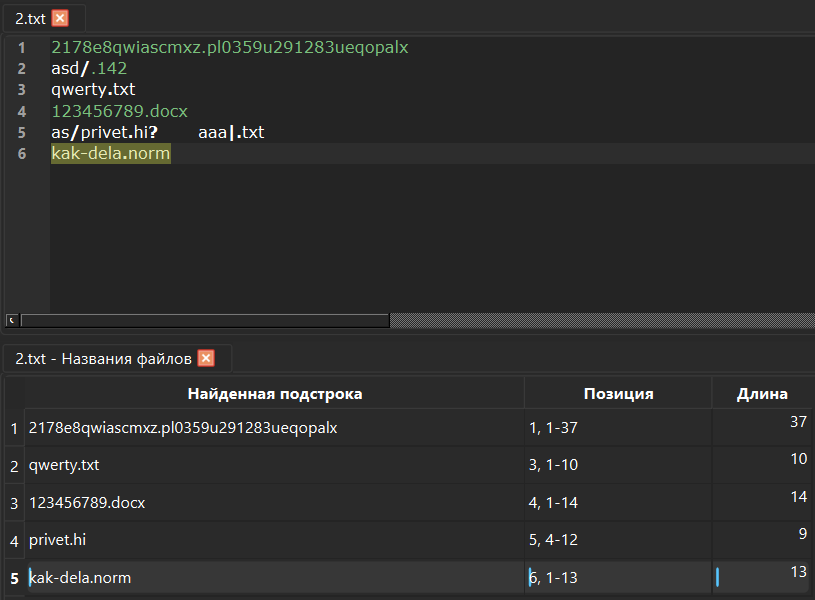
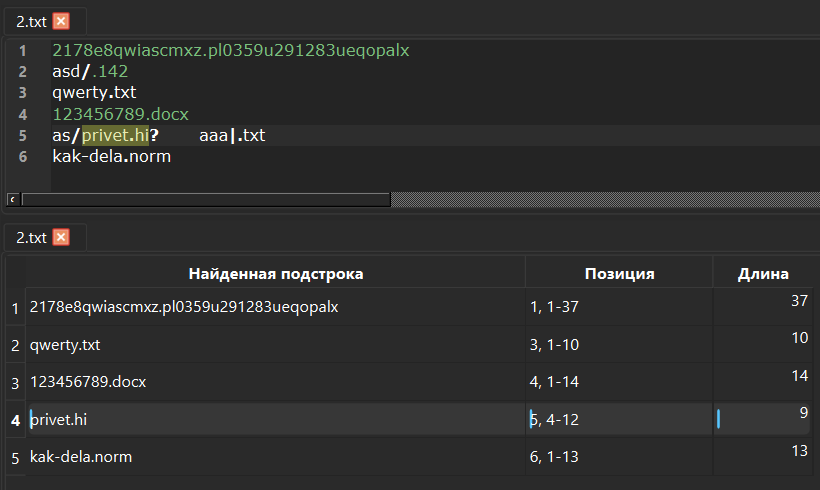
extra excercise for filename regular expr

diff --git a/text_editor.py b/text_editor.py
@@ -1363,64 +1363,7 @@ class TextEditor(QMainWindow, Ui_MainWindow):  # , Ui_MainWindow
 
     #     self.create_filename_table(matches, self.current_file_path)
 
-    # def create_filename_table(self, matches, file_path):
-    #     if file_path and file_path in self.input_to_output_map:
-    #         old_table = self.input_to_output_map[file_path]
-    #         index = self.output_tab_widget.indexOf(old_table)
-    #         if index >= 0:
-    #             self.output_tab_widget.removeTab(index)
-    #             old_table.deleteLater()
-    #         del self.input_to_output_map[file_path]
-
-    #     table = QTableWidget()
-    #     table.setColumnCount(3)
-
-    #     if self.lang.current_language == 'ru':
-    #         headers = ['Найденная подстрока', 'Позиция', 'Длина']
-    #     else:
-    #         headers = ['Found substring', 'Position', 'Length']
-    #     table.setHorizontalHeaderLabels(headers)
-
-    #     if not matches:
-    #         table.setRowCount(0)
-    #     else:
-    #         table.setRowCount(len(matches))
-
-    #         for row, match in enumerate(matches):
-    #             substring_item = QTableWidgetItem(match['substring'])
-    #             substring_item.setToolTip(f"Filename: {match['substring']}")
-    #             table.setItem(row, 0, substring_item)
-
-    #             location_item = QTableWidgetItem(match['location'])
-    #             table.setItem(row, 1, location_item)
-
-    #             length_item = QTableWidgetItem(str(match['length']))
-    #             length_item.setTextAlignment(Qt.AlignmentFlag.AlignRight)
-    #             table.setItem(row, 2, length_item)
-
-    #         table.matches_data = matches
-
-    #     table.setEditTriggers(QTableWidget.EditTrigger.NoEditTriggers)
-    #     table.setSelectionBehavior(QTableWidget.SelectionBehavior.SelectRows)
-    #     table.resizeColumnsToContents()
-
-    #     table.itemClicked.connect(self.on_filename_table_clicked)
-
-    #     tab_name = self.input_tab_widget.tabText(self.input_tab_widget.currentIndex())
-    #     if self.lang.current_language == 'ru':
-    #         tab_display_name = f"{tab_name} - Названия файлов"
-    #     else:
-    #         tab_display_name = f"{tab_name} - Filenames"
-
-    #     self.output_tab_widget.addTab(table, tab_display_name)
-    #     if file_path:
-    #         self.input_to_output_map[file_path] = table
-    #     self.output_tab_widget.setCurrentWidget(table)
-
-    #     table.setColumnWidth(0, 400)
-    #     table.setColumnWidth(1, 150)
-    #     table.setColumnWidth(2, 80)
-
+    # Доп задание на основе 2
     def run(self):
         if not self.input_tab_widget:
             return
@@ -1443,35 +1386,57 @@ class TextEditor(QMainWindow, Ui_MainWindow):  # , Ui_MainWindow
 
         text = self.current_input_widget.text()
 
-        url_regex = r'\b(?:https?|ftp)://(?:[a-zA-Z0-9-]+\.)+[a-zA-Z]{2,}(?::\d{1,5})?(?:/[^\s]*)?\b'
+        matches = self.search_filenames_with_automaton(text)
+
+        self.create_filename_table(matches, self.current_file_path)
+
+    def search_filenames_with_automaton(self, text):
+        forbidden_chars = set('\\/:*?"<>|')
 
         matches = []
-        pattern = re.compile(url_regex, re.IGNORECASE)
+        i = 0
+        n = len(text)
 
-        for match in pattern.finditer(text):
-            url = match.group()
-            start_pos = match.start()
-            end_pos = match.end()
-            length = end_pos - start_pos
+        while i < n:
+            if text[i] not in forbidden_chars and text[i] != ' ' and text[i] != '\n' and text[i] != '\r':
+                start = i
+                has_dot = False
+                valid = True
 
-            line_num = text.count('\n', 0, start_pos) + 1
-            line_start = text.rfind('\n', 0, start_pos) + 1
-            start_col = start_pos - line_start + 1
-            end_col = end_pos - line_start
+                while i < n and text[i] not in forbidden_chars and text[i] != ' ' and text[i] != '\n' and text[i] != '\r':
+                    if text[i] == '.':
+                        has_dot = True
+                    i += 1
 
-            location = f"{line_num}, {start_col}-{end_col}"
+                end = i
 
-            matches.append({
-                'substring': url,
-                'location': location,
-                'length': length,
-                'start_pos': start_pos,
-                'end_pos': end_pos
-            })
+                if has_dot and end > start:
+                    filename = text[start:end]
 
-        self.create_url_table(matches, self.current_file_path)
+                    if not filename.startswith('.') and not filename.endswith('.'):
+                        parts = filename.split('.')
+                        if len(parts) >= 2 and parts[-1]:
+                            line_num = text.count('\n', 0, start) + 1
+                            line_start = text.rfind('\n', 0, start) + 1
+                            start_col = start - line_start + 1
+                            end_col = end - line_start
 
-    def create_url_table(self, matches, file_path):
+                            location = f"{line_num}, {start_col}-{end_col}"
+                            length = end - start
+
+                            matches.append({
+                                'substring': filename,
+                                'location': location,
+                                'length': length,
+                                'start_pos': start,
+                                'end_pos': end
+                            })
+            else:
+                i += 1
+
+        return matches
+
+    def create_filename_table(self, matches, file_path):
         if file_path and file_path in self.input_to_output_map:
             old_table = self.input_to_output_map[file_path]
             index = self.output_tab_widget.indexOf(old_table)
@@ -1495,9 +1460,9 @@ class TextEditor(QMainWindow, Ui_MainWindow):  # , Ui_MainWindow
             table.setRowCount(len(matches))
 
             for row, match in enumerate(matches):
-                url_item = QTableWidgetItem(match['substring'])
-                url_item.setToolTip(f"URL: {match['substring']}")
-                table.setItem(row, 0, url_item)
+                substring_item = QTableWidgetItem(match['substring'])
+                substring_item.setToolTip(f"Filename: {match['substring']}")
+                table.setItem(row, 0, substring_item)
 
                 location_item = QTableWidgetItem(match['location'])
                 table.setItem(row, 1, location_item)
@@ -1512,7 +1477,7 @@ class TextEditor(QMainWindow, Ui_MainWindow):  # , Ui_MainWindow
         table.setSelectionBehavior(QTableWidget.SelectionBehavior.SelectRows)
         table.resizeColumnsToContents()
 
-        table.itemClicked.connect(self.on_url_table_clicked)
+        table.itemClicked.connect(self.on_filename_table_clicked)
 
         tab_name = self.input_tab_widget.tabText(self.input_tab_widget.currentIndex())
         tab_display_name = f"{tab_name}"
@@ -1522,11 +1487,117 @@ class TextEditor(QMainWindow, Ui_MainWindow):  # , Ui_MainWindow
             self.input_to_output_map[file_path] = table
         self.output_tab_widget.setCurrentWidget(table)
 
-        table.setColumnWidth(0, 500)
+        table.setColumnWidth(0, 400)
         table.setColumnWidth(1, 150)
         table.setColumnWidth(2, 80)
 
-    def on_url_table_clicked(self, item):  # on_filename_table_clicked
+    # 3 Задание
+    # def run(self):
+    #     if not self.input_tab_widget:
+    #         return
+    #     index = self.input_tab_widget.currentIndex()
+    #     self.current_input_widget = self.input_tab_widget.widget(index)
+    #     self.current_file_path = self.current_input_widget.file_path
+
+    #     if not self.current_file_path or self.current_input_widget.isModified():
+    #         if not self.save_file():
+    #             return
+    #         if self.current_input_widget.file_path:
+    #             self.current_file_path = self.current_input_widget.file_path
+
+    #     self.current_tab_name = self.input_tab_widget.tabText(index)
+
+    #     if self.current_file_path in self.input_to_output_map:
+    #         output_widget = self.input_to_output_map[self.current_file_path]
+    #         output_index = self.output_tab_widget.indexOf(output_widget)
+    #         self.output_tab_widget.setCurrentIndex(output_index)
+
+    #     text = self.current_input_widget.text()
+
+    #     url_regex = r'\b(?:https?|ftp)://(?:[a-zA-Z0-9-]+\.)+[a-zA-Z]{2,}(?::\d{1,5})?(?:/[^\s]*)?\b'
+
+    #     matches = []
+    #     pattern = re.compile(url_regex, re.IGNORECASE)
+
+    #     for match in pattern.finditer(text):
+    #         url = match.group()
+    #         start_pos = match.start()
+    #         end_pos = match.end()
+    #         length = end_pos - start_pos
+
+    #         line_num = text.count('\n', 0, start_pos) + 1
+    #         line_start = text.rfind('\n', 0, start_pos) + 1
+    #         start_col = start_pos - line_start + 1
+    #         end_col = end_pos - line_start
+
+    #         location = f"{line_num}, {start_col}-{end_col}"
+
+    #         matches.append({
+    #             'substring': url,
+    #             'location': location,
+    #             'length': length,
+    #             'start_pos': start_pos,
+    #             'end_pos': end_pos
+    #         })
+
+    #     self.create_url_table(matches, self.current_file_path)
+
+    # def create_url_table(self, matches, file_path):
+    #     if file_path and file_path in self.input_to_output_map:
+    #         old_table = self.input_to_output_map[file_path]
+    #         index = self.output_tab_widget.indexOf(old_table)
+    #         if index >= 0:
+    #             self.output_tab_widget.removeTab(index)
+    #             old_table.deleteLater()
+    #         del self.input_to_output_map[file_path]
+
+    #     table = QTableWidget()
+    #     table.setColumnCount(3)
+
+    #     if self.lang.current_language == 'ru':
+    #         headers = ['Найденная подстрока', 'Позиция', 'Длина']
+    #     else:
+    #         headers = ['Found substring', 'Position', 'Length']
+    #     table.setHorizontalHeaderLabels(headers)
+
+    #     if not matches:
+    #         table.setRowCount(0)
+    #     else:
+    #         table.setRowCount(len(matches))
+
+    #         for row, match in enumerate(matches):
+    #             url_item = QTableWidgetItem(match['substring'])
+    #             url_item.setToolTip(f"URL: {match['substring']}")
+    #             table.setItem(row, 0, url_item)
+
+    #             location_item = QTableWidgetItem(match['location'])
+    #             table.setItem(row, 1, location_item)
+
+    #             length_item = QTableWidgetItem(str(match['length']))
+    #             length_item.setTextAlignment(Qt.AlignmentFlag.AlignRight)
+    #             table.setItem(row, 2, length_item)
+
+    #         table.matches_data = matches
+
+    #     table.setEditTriggers(QTableWidget.EditTrigger.NoEditTriggers)
+    #     table.setSelectionBehavior(QTableWidget.SelectionBehavior.SelectRows)
+    #     table.resizeColumnsToContents()
+
+    #     table.itemClicked.connect(self.on_url_table_clicked)
+
+    #     tab_name = self.input_tab_widget.tabText(self.input_tab_widget.currentIndex())
+    #     tab_display_name = f"{tab_name}"
+
+    #     self.output_tab_widget.addTab(table, tab_display_name)
+    #     if file_path:
+    #         self.input_to_output_map[file_path] = table
+    #     self.output_tab_widget.setCurrentWidget(table)
+
+    #     table.setColumnWidth(0, 500)
+    #     table.setColumnWidth(1, 150)
+    #     table.setColumnWidth(2, 80)
+
+    def on_filename_table_clicked(self, item):  # on_url_table_clicked
         row = item.row()
         table = item.tableWidget()
 
